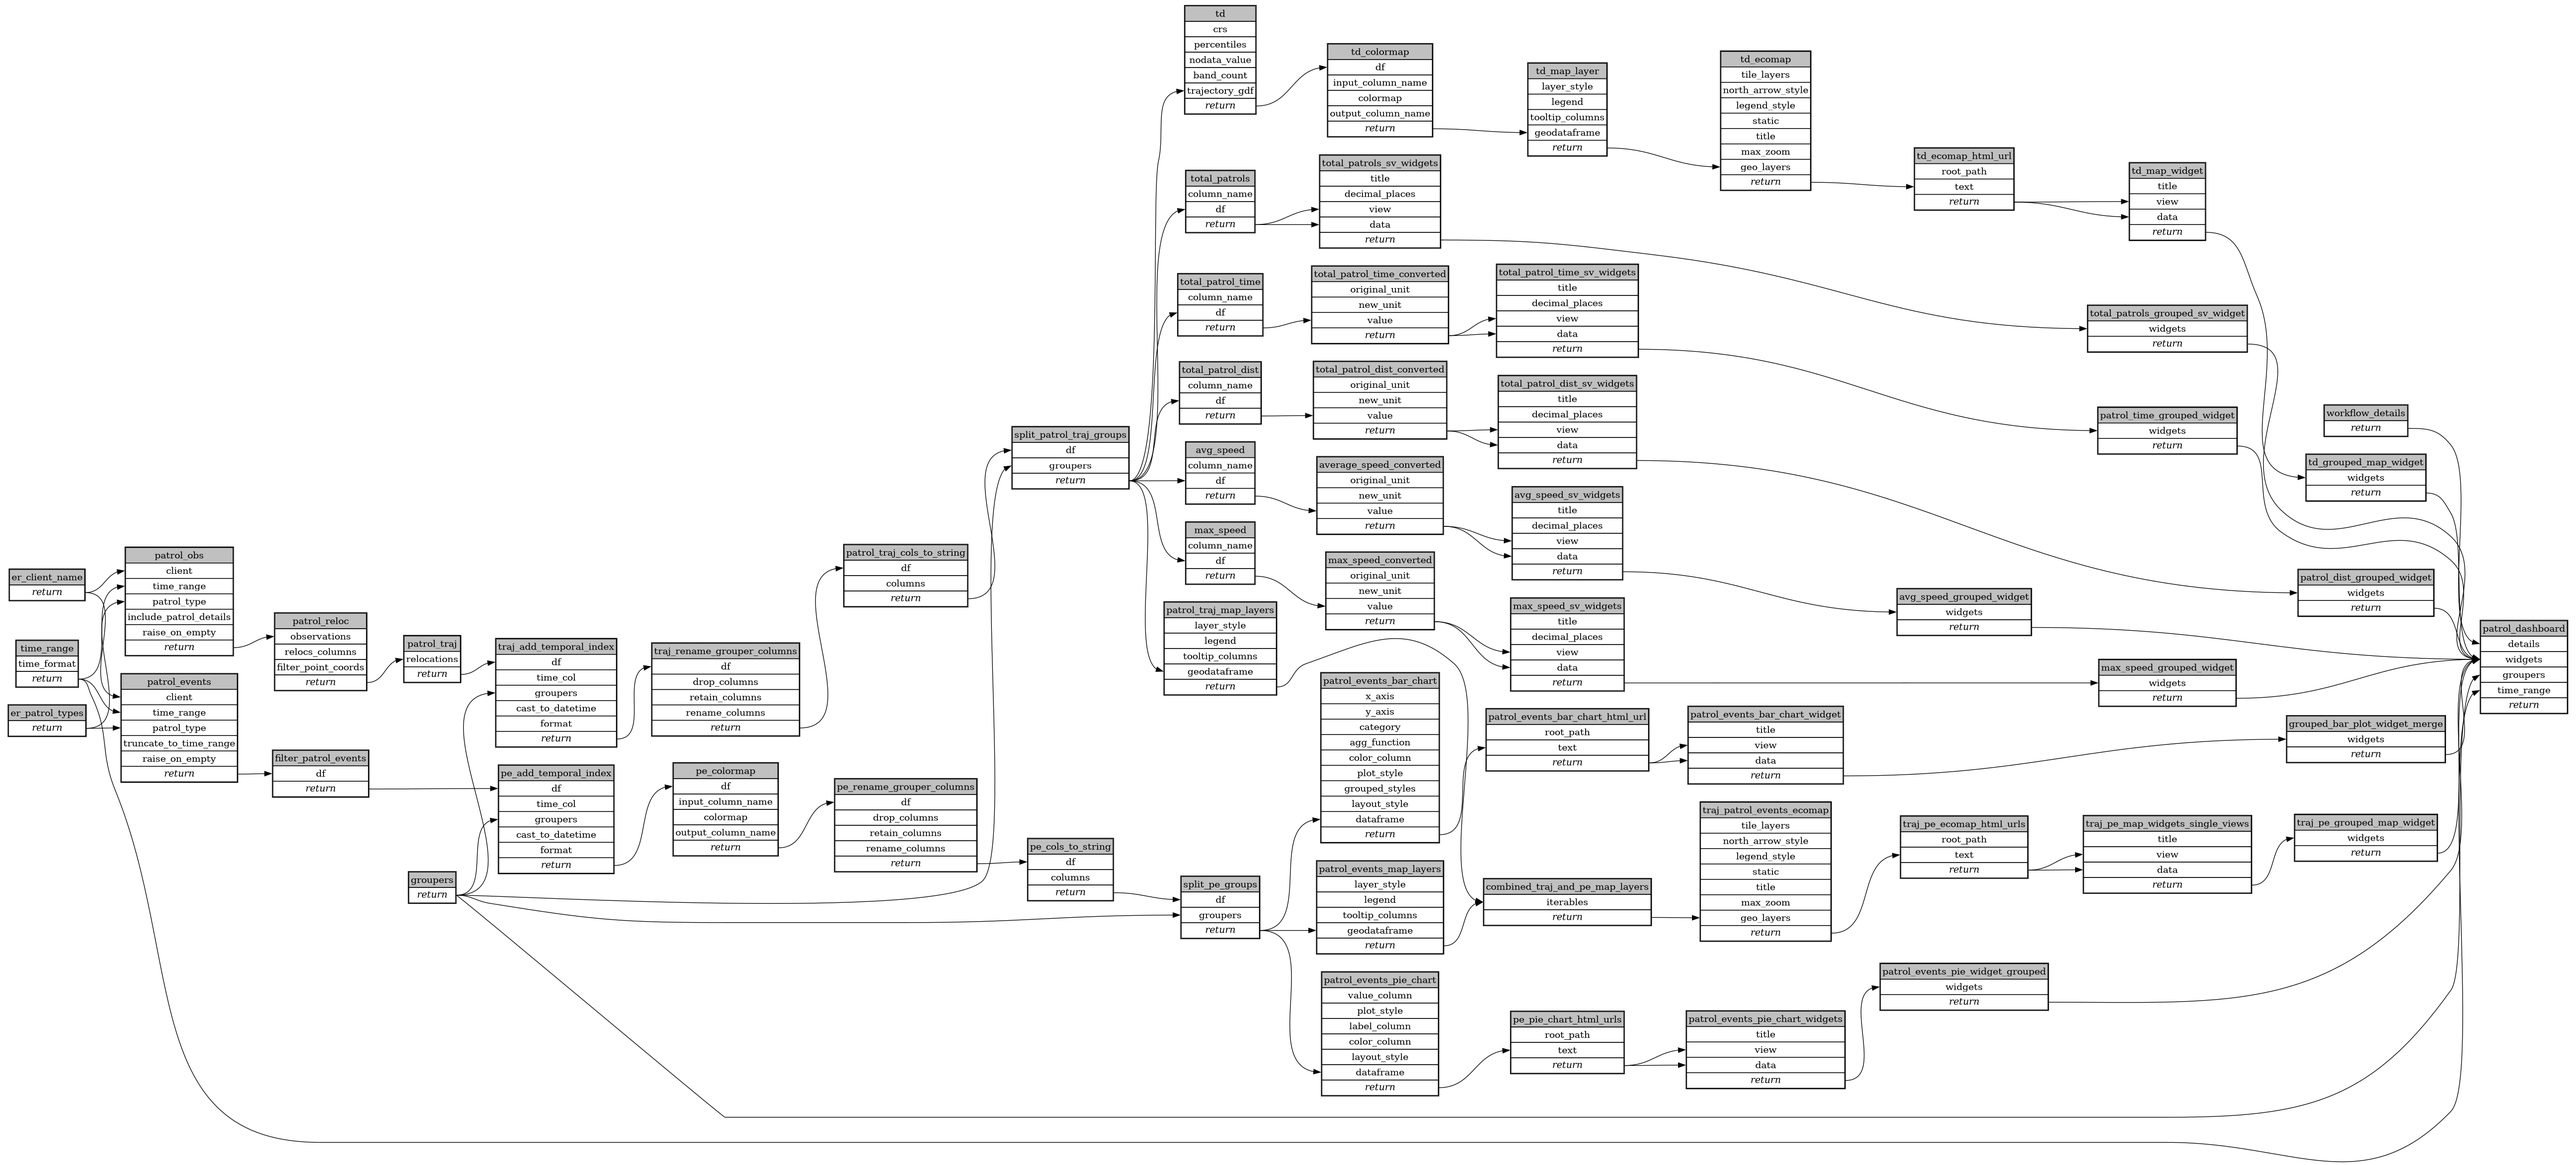
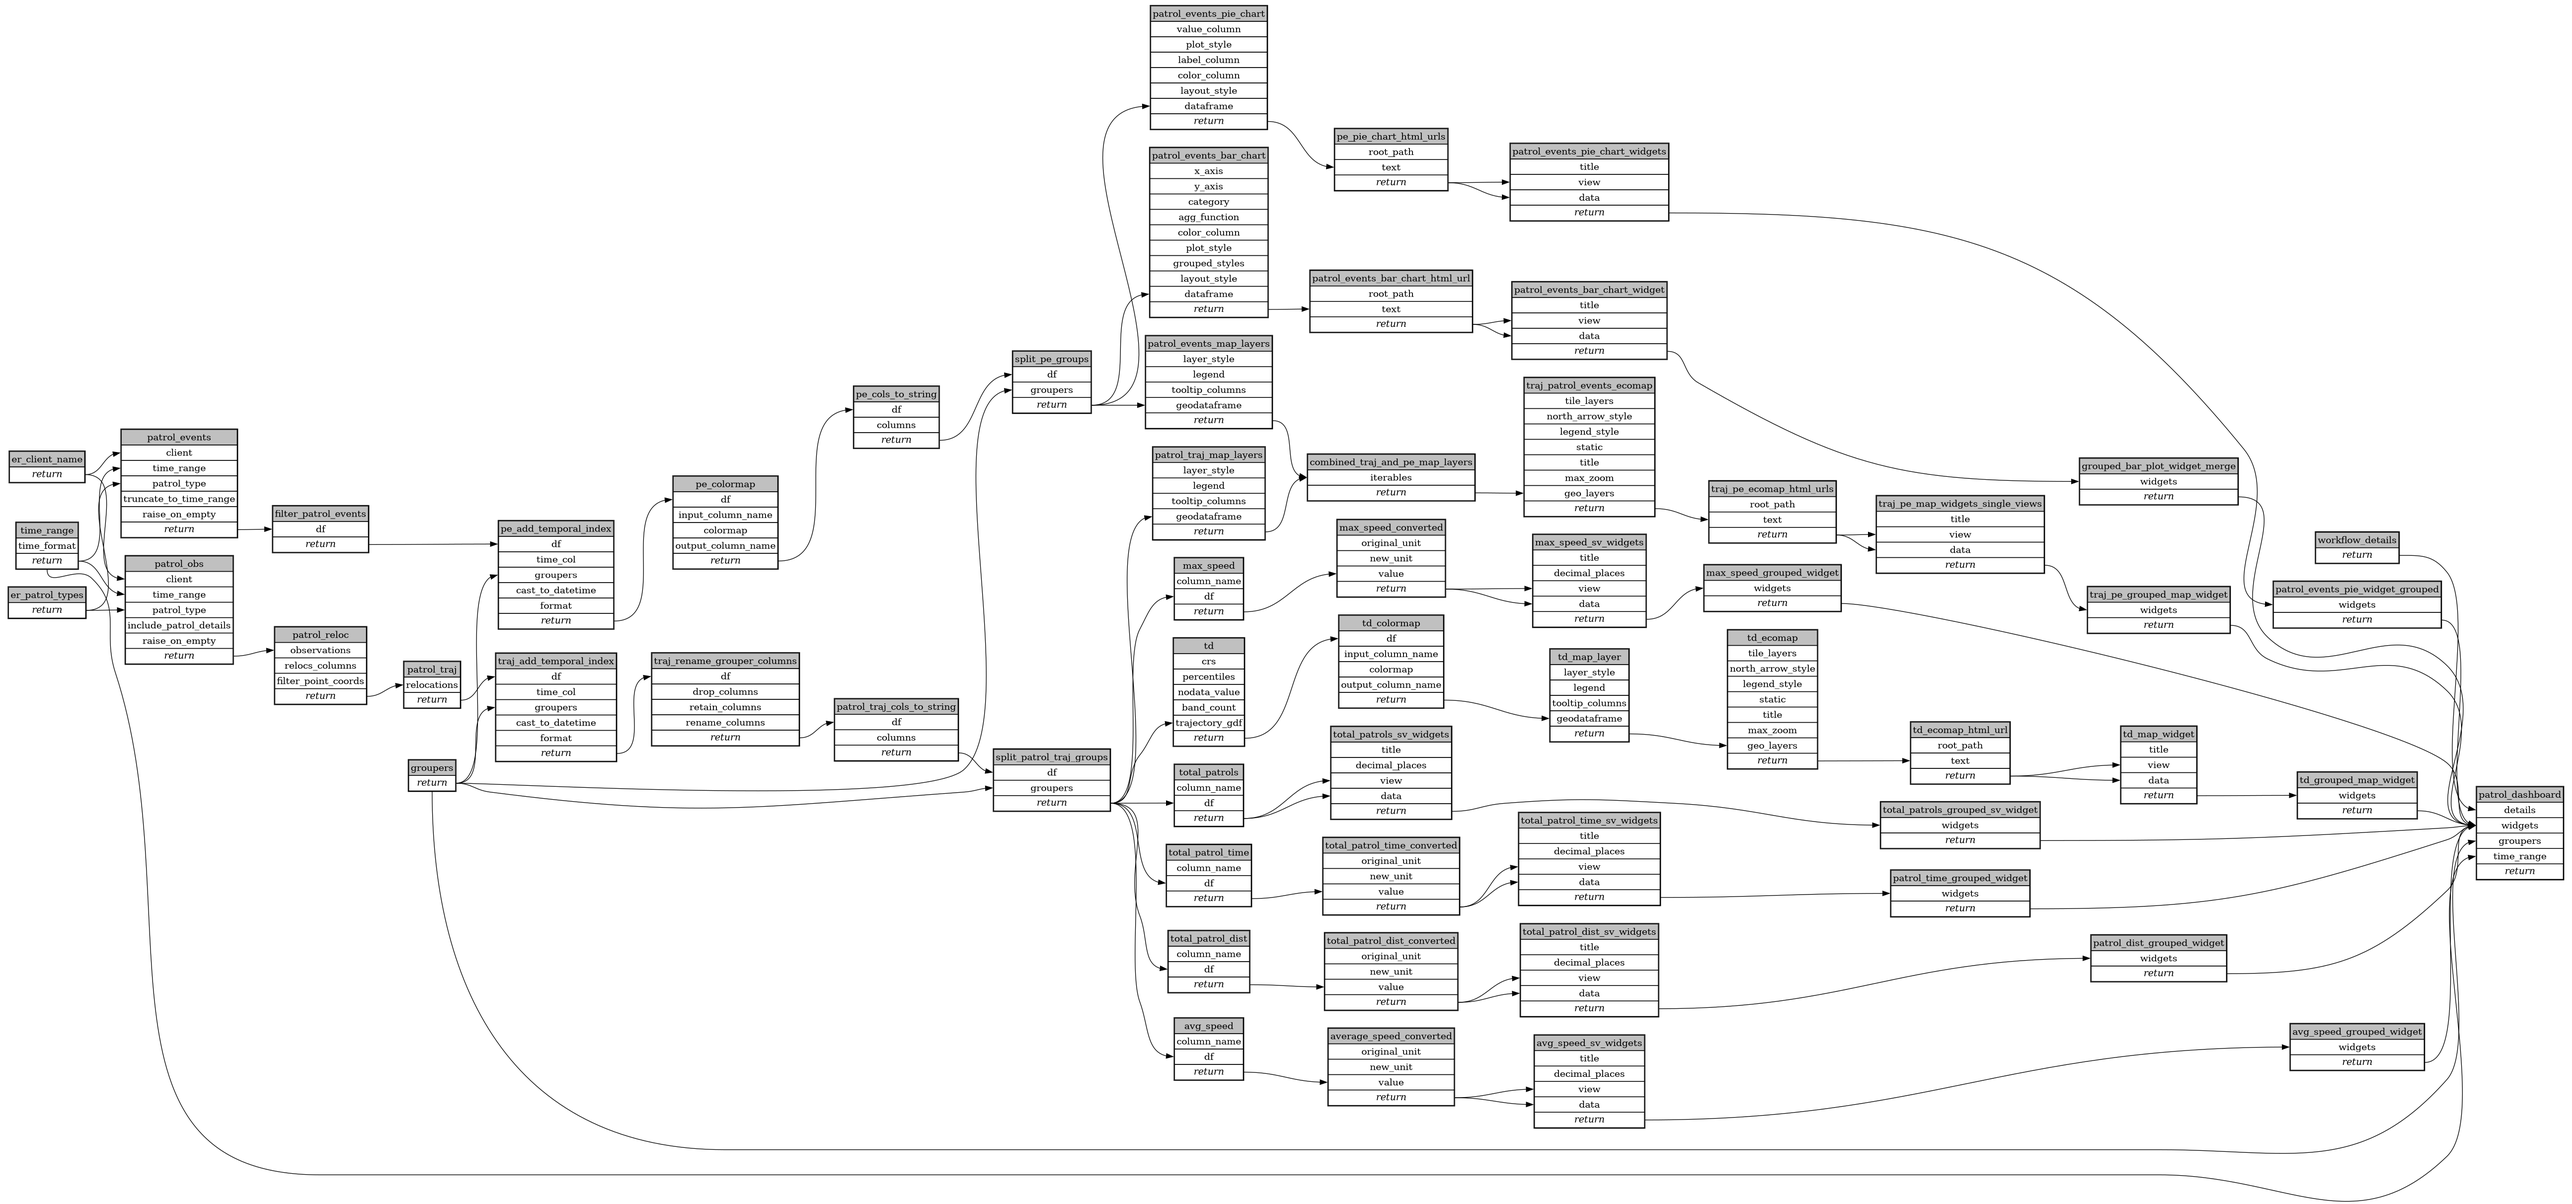
auto: recompile ecoscope-workflows-patrols-workflow

diff --git a/ecoscope-workflows-patrols-workflow/ecoscope_workflows_patrols_workflow/dags/run_async.py b/ecoscope-workflows-patrols-workflow/ecoscope_workflows_patrols_workflow/dags/run_async.py
@@ -64,9 +64,8 @@ def main(params: Params):
         "filter_patrol_events": ["patrol_events"],
         "pe_add_temporal_index": ["filter_patrol_events", "groupers"],
         "pe_colormap": ["pe_add_temporal_index"],
-        "pe_rename_grouper_columns": ["pe_colormap"],
         "patrol_traj_cols_to_string": ["traj_rename_grouper_columns"],
-        "pe_cols_to_string": ["pe_rename_grouper_columns"],
+        "pe_cols_to_string": ["pe_colormap"],
         "split_patrol_traj_groups": ["patrol_traj_cols_to_string", "groupers"],
         "split_pe_groups": ["pe_cols_to_string", "groupers"],
         "patrol_events_map_layers": ["split_pe_groups"],
@@ -300,19 +299,6 @@ def main(params: Params):
             | (params_dict.get("pe_colormap") or {}),
             method="call",
         ),
-        "pe_rename_grouper_columns": Node(
-            async_task=map_columns.validate()
-            .handle_errors(task_instance_id="pe_rename_grouper_columns")
-            .set_executor("lithops"),
-            partial={
-                "df": DependsOn("pe_colormap"),
-                "drop_columns": [],
-                "retain_columns": [],
-                "rename_columns": {"serial_number": "patrol_serial_number"},
-            }
-            | (params_dict.get("pe_rename_grouper_columns") or {}),
-            method="call",
-        ),
         "patrol_traj_cols_to_string": Node(
             async_task=convert_column_values_to_string.validate()
             .handle_errors(task_instance_id="patrol_traj_cols_to_string")
@@ -329,7 +315,7 @@ def main(params: Params):
             .handle_errors(task_instance_id="pe_cols_to_string")
             .set_executor("lithops"),
             partial={
-                "df": DependsOn("pe_rename_grouper_columns"),
+                "df": DependsOn("pe_colormap"),
                 "columns": ["patrol_serial_number", "patrol_type"],
             }
             | (params_dict.get("pe_cols_to_string") or {}),

diff --git a/ecoscope-workflows-patrols-workflow/ecoscope_workflows_patrols_workflow/dags/run_async_mock_io.py b/ecoscope-workflows-patrols-workflow/ecoscope_workflows_patrols_workflow/dags/run_async_mock_io.py
@@ -85,9 +85,8 @@ def main(params: Params):
         "filter_patrol_events": ["patrol_events"],
         "pe_add_temporal_index": ["filter_patrol_events", "groupers"],
         "pe_colormap": ["pe_add_temporal_index"],
-        "pe_rename_grouper_columns": ["pe_colormap"],
         "patrol_traj_cols_to_string": ["traj_rename_grouper_columns"],
-        "pe_cols_to_string": ["pe_rename_grouper_columns"],
+        "pe_cols_to_string": ["pe_colormap"],
         "split_patrol_traj_groups": ["patrol_traj_cols_to_string", "groupers"],
         "split_pe_groups": ["pe_cols_to_string", "groupers"],
         "patrol_events_map_layers": ["split_pe_groups"],
@@ -321,19 +320,6 @@ def main(params: Params):
             | (params_dict.get("pe_colormap") or {}),
             method="call",
         ),
-        "pe_rename_grouper_columns": Node(
-            async_task=map_columns.validate()
-            .handle_errors(task_instance_id="pe_rename_grouper_columns")
-            .set_executor("lithops"),
-            partial={
-                "df": DependsOn("pe_colormap"),
-                "drop_columns": [],
-                "retain_columns": [],
-                "rename_columns": {"serial_number": "patrol_serial_number"},
-            }
-            | (params_dict.get("pe_rename_grouper_columns") or {}),
-            method="call",
-        ),
         "patrol_traj_cols_to_string": Node(
             async_task=convert_column_values_to_string.validate()
             .handle_errors(task_instance_id="patrol_traj_cols_to_string")
@@ -350,7 +336,7 @@ def main(params: Params):
             .handle_errors(task_instance_id="pe_cols_to_string")
             .set_executor("lithops"),
             partial={
-                "df": DependsOn("pe_rename_grouper_columns"),
+                "df": DependsOn("pe_colormap"),
                 "columns": ["patrol_serial_number", "patrol_type"],
             }
             | (params_dict.get("pe_cols_to_string") or {}),

diff --git a/ecoscope-workflows-patrols-workflow/ecoscope_workflows_patrols_workflow/formdata.py b/ecoscope-workflows-patrols-workflow/ecoscope_workflows_patrols_workflow/formdata.py
@@ -46,7 +46,7 @@ class PatrolObs(BaseModel):
         extra="forbid",
     )
     status: Optional[List[StatusEnum]] = Field(
-        None,
+        ["done"],
         description="list of 'scheduled'/'active'/'overdue'/'done'/'cancelled'",
         title="Status",
     )
@@ -60,7 +60,7 @@ class PatrolEvents(BaseModel):
         ..., description="list of event types by name", title="Event Type"
     )
     status: Optional[List[str]] = Field(
-        None,
+        ["done"],
         description="list of 'scheduled'/'active'/'overdue'/'done'/'cancelled'",
         title="Status",
     )
@@ -173,7 +173,16 @@ class PatrolTraj(BaseModel):
         extra="forbid",
     )
     trajectory_segment_filter: Optional[TrajectorySegmentFilter] = Field(
-        None,
+        default_factory=lambda: TrajectorySegmentFilter.model_validate(
+            {
+                "min_length_meters": 0.001,
+                "max_length_meters": 10000,
+                "min_time_secs": 1,
+                "max_time_secs": 3600,
+                "min_speed_kmhr": 0.0001,
+                "max_speed_kmhr": 120,
+            }
+        ),
         description="Trajectory Segments outside these bounds will be removed",
         title="Trajectory Segment Filter",
     )
@@ -197,7 +206,7 @@ class FilterPatrolEvents(BaseModel):
     min_y: Optional[float] = Field(-90.0, title="Min Y")
     max_y: Optional[float] = Field(90.0, title="Max Y")
     filter_point_coords: Optional[List[Coordinate]] = Field(
-        None, title="Filter Point Coords"
+        [], title="Filter Point Coords"
     )
 
 

diff --git a/ecoscope-workflows-patrols-workflow/ecoscope_workflows_patrols_workflow/params.py b/ecoscope-workflows-patrols-workflow/ecoscope_workflows_patrols_workflow/params.py
@@ -46,7 +46,7 @@ class PatrolObs(BaseModel):
         extra="forbid",
     )
     status: Optional[List[StatusEnum]] = Field(
-        None,
+        ["done"],
         description="list of 'scheduled'/'active'/'overdue'/'done'/'cancelled'",
         title="Status",
     )
@@ -60,7 +60,7 @@ class PatrolEvents(BaseModel):
         ..., description="list of event types by name", title="Event Type"
     )
     status: Optional[List[str]] = Field(
-        None,
+        ["done"],
         description="list of 'scheduled'/'active'/'overdue'/'done'/'cancelled'",
         title="Status",
     )
@@ -163,7 +163,16 @@ class PatrolTraj(BaseModel):
         extra="forbid",
     )
     trajectory_segment_filter: Optional[TrajectorySegmentFilter] = Field(
-        None,
+        default_factory=lambda: TrajectorySegmentFilter.model_validate(
+            {
+                "min_length_meters": 0.001,
+                "max_length_meters": 10000,
+                "min_time_secs": 1,
+                "max_time_secs": 3600,
+                "min_speed_kmhr": 0.0001,
+                "max_speed_kmhr": 120,
+            }
+        ),
         description="Trajectory Segments outside these bounds will be removed",
         title="Trajectory Segment Filter",
     )
@@ -178,7 +187,7 @@ class FilterPatrolEvents(BaseModel):
     min_y: Optional[float] = Field(-90.0, title="Min Y")
     max_y: Optional[float] = Field(90.0, title="Max Y")
     filter_point_coords: Optional[List[Coordinate]] = Field(
-        None, title="Filter Point Coords"
+        [], title="Filter Point Coords"
     )
 
 

diff --git a/ecoscope-workflows-patrols-workflow/ecoscope_workflows_patrols_workflow/dags/run_sequential.py b/ecoscope-workflows-patrols-workflow/ecoscope_workflows_patrols_workflow/dags/run_sequential.py
@@ -210,19 +210,6 @@ def main(params: Params):
         .call()
     )
 
-    pe_rename_grouper_columns = (
-        map_columns.validate()
-        .handle_errors(task_instance_id="pe_rename_grouper_columns")
-        .partial(
-            df=pe_colormap,
-            drop_columns=[],
-            retain_columns=[],
-            rename_columns={"serial_number": "patrol_serial_number"},
-            **(params_dict.get("pe_rename_grouper_columns") or {}),
-        )
-        .call()
-    )
-
     patrol_traj_cols_to_string = (
         convert_column_values_to_string.validate()
         .handle_errors(task_instance_id="patrol_traj_cols_to_string")
@@ -238,7 +225,7 @@ def main(params: Params):
         convert_column_values_to_string.validate()
         .handle_errors(task_instance_id="pe_cols_to_string")
         .partial(
-            df=pe_rename_grouper_columns,
+            df=pe_colormap,
             columns=["patrol_serial_number", "patrol_type"],
             **(params_dict.get("pe_cols_to_string") or {}),
         )

diff --git a/ecoscope-workflows-patrols-workflow/ecoscope_workflows_patrols_workflow/dags/run_sequential_mock_io.py b/ecoscope-workflows-patrols-workflow/ecoscope_workflows_patrols_workflow/dags/run_sequential_mock_io.py
@@ -231,19 +231,6 @@ def main(params: Params):
         .call()
     )
 
-    pe_rename_grouper_columns = (
-        map_columns.validate()
-        .handle_errors(task_instance_id="pe_rename_grouper_columns")
-        .partial(
-            df=pe_colormap,
-            drop_columns=[],
-            retain_columns=[],
-            rename_columns={"serial_number": "patrol_serial_number"},
-            **(params_dict.get("pe_rename_grouper_columns") or {}),
-        )
-        .call()
-    )
-
     patrol_traj_cols_to_string = (
         convert_column_values_to_string.validate()
         .handle_errors(task_instance_id="patrol_traj_cols_to_string")
@@ -259,7 +246,7 @@ def main(params: Params):
         convert_column_values_to_string.validate()
         .handle_errors(task_instance_id="pe_cols_to_string")
         .partial(
-            df=pe_rename_grouper_columns,
+            df=pe_colormap,
             columns=["patrol_serial_number", "patrol_type"],
             **(params_dict.get("pe_cols_to_string") or {}),
         )

diff --git a/ecoscope-workflows-patrols-workflow/ecoscope_workflows_patrols_workflow/dags/jupytext.py b/ecoscope-workflows-patrols-workflow/ecoscope_workflows_patrols_workflow/dags/jupytext.py
@@ -406,31 +406,6 @@ pe_colormap = (
 
 
 # %% [markdown]
-# ## Rename value grouper columns for Events
-
-# %%
-# parameters
-
-pe_rename_grouper_columns_params = dict()
-
-# %%
-# call the task
-
-
-pe_rename_grouper_columns = (
-    map_columns.handle_errors(task_instance_id="pe_rename_grouper_columns")
-    .partial(
-        df=pe_colormap,
-        drop_columns=[],
-        retain_columns=[],
-        rename_columns={"serial_number": "patrol_serial_number"},
-        **pe_rename_grouper_columns_params,
-    )
-    .call()
-)
-
-
-# %% [markdown]
 # ## Cast Patrol Trajectory Columns
 
 # %%
@@ -470,7 +445,7 @@ pe_cols_to_string_params = dict()
 pe_cols_to_string = (
     convert_column_values_to_string.handle_errors(task_instance_id="pe_cols_to_string")
     .partial(
-        df=pe_rename_grouper_columns,
+        df=pe_colormap,
         columns=["patrol_serial_number", "patrol_type"],
         **pe_cols_to_string_params,
     )

diff --git a/ecoscope-workflows-patrols-workflow/ecoscope_workflows_patrols_workflow/app.py b/ecoscope-workflows-patrols-workflow/ecoscope_workflows_patrols_workflow/app.py
@@ -23,7 +23,7 @@ from .response import ResponseModel
 app = FastAPI(
     title="patrols",
     debug=True,
-    version="aca9227",
+    version="1f2c832",
 )
 app.add_middleware(
     CORSMiddleware,

diff --git a/ecoscope-workflows-patrols-workflow/README.md b/ecoscope-workflows-patrols-workflow/README.md
@@ -5,17 +5,17 @@
 
 ```yaml
 # fingerprint:
-artifacts_sha256_basic: f838bde03a11e9a5e22091161d333e3e02ffe44bbfe039a4fb54c8a6e237c765
-artifacts_sha256_strict: 09bf12e30f43e6cc664ea5f75b1fc30d166375f1552b345a258e9deaffd2ce60
+artifacts_sha256_basic: fc32770b394c5265e02b4ba2a7b19eb95eeb251d0a6028558a32af1d09e81701
+artifacts_sha256_strict: c5d3a11879077a9e14b4dbc65d28a4f270ef916313d8173453d5901bd89d8102
 installed_requirements:
 - channel: https://repo.prefix.dev/ecoscope-workflows/
   name: ecoscope-workflows-core
-  version: {version: ==0.0.59}
+  version: {version: ==0.0.60}
 - channel: https://repo.prefix.dev/ecoscope-workflows/
   name: ecoscope-workflows-ext-ecoscope
-  version: {version: ==0.0.59}
+  version: {version: ==0.0.60}
 params_sha256: bd5b46939edaeda323e5725a4a43b9bb61e305743f028187d219a61e38e738b7
-spec_sha256: aca9227c13ac796cafb502393e7377ff839aa932d279e8c0e6473caf1ba472aa
+spec_sha256: 1f2c832448eb8e6ad4a3c6e3ffc9c33f073f76b05e280ec51898ca431f550e02
 
 ```
 
